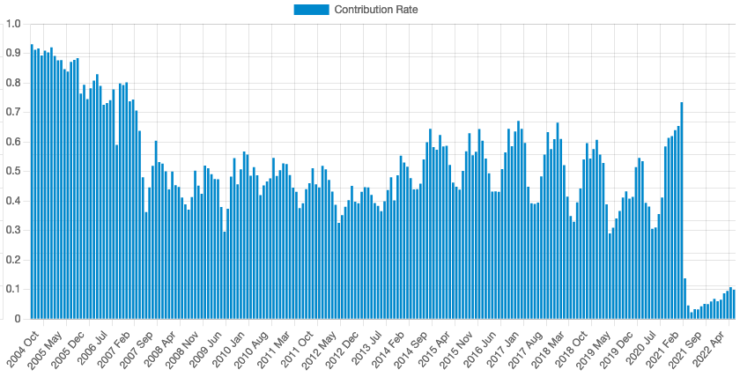
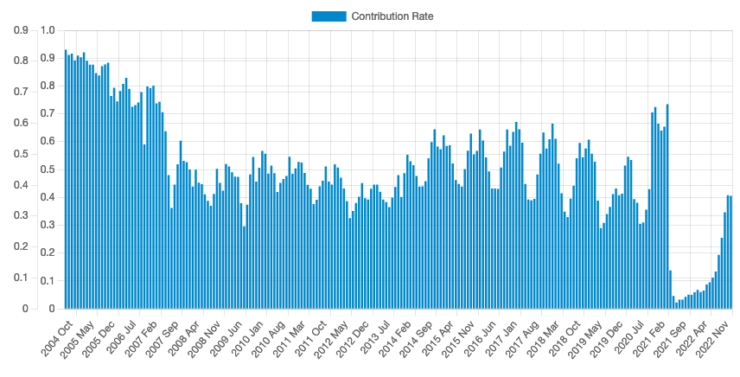
Dam communities

diff --git a/_posts/2023-02-14-community_reservoir.md b/_posts/2023-02-14-community_reservoir.md
@@ -1,0 +1,224 @@
+---
+layout: post
+title: Community Insights #1
+subtitle: Communities are like reservoirs
+tags: community metrics insights
+comments: true
+---
+
+[This is the first of a regular series of articles about the College
+Confidential community. I'm writing them for an internal audience and
+this is a slightly edited version for an external audience.]
+
+I've [compared communities to hydroelectric
+dams](https://jlericson.com/2021/03/23/2021_CMX_report.html) in the
+sense that they're difficult to get started yet provide ongoing value if
+well maintained. To extend the metaphor a little bit, the reservoir
+behind a dam works like any group of people. People flow into groups via
+inlets and leave via outlets. The size of a group continually changes as
+people come and go. This is true of all types of groups, not just online
+communities.
+
+My wife is a leader in Cub Scouts. People find out about the pack via
+Facebook, personal recommendation, membership drives and flyers at
+school. Every year many families join and many families leave. Usually
+they leave because their children age out of the program. But they also
+leave because they are moving out of state or just lose interest. It's
+not much different from College Confidential in that respect.
+
+## Inlets
+
+Google Analytics provides a useful summary of how people come to
+CC:[^1]
+
+![](/images/cc_channels.png)
+
+A quick summary of what those channels represent:
+
+-   Organic search is people entering a search term into Google (or
+    Bing, I suppose)
+-   Direct means the person typed the URL directly or used a
+    bookmark.[^2]
+-   Referrals come from sites that link to CC, which aren't social media
+    sites.
+-   Social covers Facebook, Instagram, Twitter, etc.
+-   Email means the traffic comes from an email we sent out with a UTM
+    tag.[^3]
+
+Because of the way Google Analytics is set up, links from
+[https://www.collegeconfidential.com/](https://www.collegeconfidential.com/)
+are counted as Referral. \~80% of referral traffic comes from the WWW
+side of CC. We can infer that many (and perhaps, most) of those people
+are already CC forum users who are simply navigating around the site.
+Most Direct traffic is also likely to be people who are already part of
+the community.
+
+With 87% of traffic coming from organic search, Google is our primary
+source of visitors. This is typical for mature communities and CC has
+been around for 2 decades. Early on it was the only place to get
+information about college admissions. Now we are competing with reddit,
+social media and the schools' websites for search traffic. To bring it
+back to the reservoir analogy, new dams have been built upstream from us
+to divert flows away from CC.
+
+Our dependence on Google for traffic is not unique, but we do have
+advantages because we offer interactive discussion. If you can't find
+what you\'re looking for, you can start a discussion. Google is
+beginning to [recognize the value of
+forums](https://blog.google/products/search/google-search-discussions-forums-news/)
+and members of the community continue to add to our content library for
+minimal cost. New content relevant to our audience is the best way to
+attract more search traffic, so it's a virtuous cycle.
+
+I anticipate search will be the topic of a future community insight
+article. But to summarize: **Nearly all of CC's new users come from
+Google.**
+
+## Outlets
+
+"All happy families are alike; each unhappy family is unhappy in its own
+way."
+
+---Leo Tolstoy, [*Anna
+Karenina*](https://en.wikipedia.org/wiki/Anna_Karenina_principle)
+
+There are many ways for people to drop out of CC. Perhaps the healthiest
+is when students complete their education or parents run out of
+college-age children. College Confidential served its purpose and people
+move on.[^4] We can think of this as the water that runs through the
+turbines and generates the power of the community. If we've genuinely
+helped students and their families, the community has provided value.
+This is the best way to sell CC to the next generation.
+
+On the opposite end of the spectrum, we have people who visit CC a few
+times and never return. Think of this as evaporation---that outlet
+provides little value. An easy-to-categorize type of pageviews come from
+bots/crawlers. Those will never convert to active users, but we do get
+value from them because they index the site so that search engines can
+show our pages to people looking for information. (Remember, this is our
+top source of new users.)
+
+![](/images/cc_pageviews.png)
+
+Metrics like bounce rate give us an idea of how many people leave on
+their first visit. All other things being equal, we want lower bounce
+rates. What we really want to know, however, is how many people come
+back to the site over and over again. Unfortunately, we can't easily
+track individual visitors before they register.[^5]
+
+Before going on, I do need to point out two oddities with our data:
+
+1.  We changed platforms for the forums in November, 2020. As a result
+    we do not have easy access to data about anonymous users before that
+    month.
+2.  From June, 2021 to June, 2022 CC required registration in order to
+    browse the site.[^6]
+
+The result is a natural experiment on the behavior of lurkers. Before we
+required registration to browse, 18% of non-bot traffic came from
+registered users. After we required registration, the rate
+increased to a max of 60% as regular readers had a reason to register.
+It fluctuated a fair amount, however. The average for that period was
+38%. Almost all of the anonymous traffic in this period was from people
+who visited only a few pages or who used ad-blocking technology.
+
+After we removed the registration wall, the rate of registered pageviews
+stabilized at around 46%. Since nearly all of our regular lurkers had
+converted to registered users or left the site, we can estimate what
+proportion of pageviews come from people who read the site regularly,
+but don't contribute. Normally these people wouldn't bother to register.
+So if we assume \~18% of pageviews still come from contributors, we can
+estimate that \~28% of pageviews come from regular readers who don't
+post.
+
+![](/images/cc_registered_traffic.png)
+
+From the perspective of community management, traffic from lurkers is
+like the water that's released downstream via a spillway. It's not
+driving the engine of the community (posts) so it doesn't help our
+growth. That said, this traffic can be very valuable for other parts of
+the business such as advertising and lead generation. It's just that the
+greater benefit comes from people who contribute to the site in some
+way.
+
+Outside of the period where we required registration to read the site,
+people generally register only when they intend to contribute in some
+way. So another outlet happens when people register, but don't
+contribute. Because of the seasonality of the college application
+process, the rate of people who contribute at least one post in the 30
+days after they register varies. In the summer months, we see
+about 35% of registered users contribute. In March, during peak decision
+season, the rate is closer to 60%.
+
+![](/images/CC_contribution_rate.png)
+
+The rather dramatic dropoff from June 2021 to June 2022 coincides with
+the registration wall. Many people who had no intention of contributing
+registered so that they could read the site. One might hope that they
+would decide to contribute now that they had an account to do so, but
+very few actually did. The jump from lurking to contributing has always
+been large.
+
+Finally we have people who register, maybe contribute for a while and
+then leave for whatever reason. Again this is highly seasonal. People
+who register in March tend to be students who want to interact with
+other students who applied to the same schools they did. After regular
+decision season, those students don't see any reason to stick around.
+Meanwhile, students who register in the fall, tend to stick around at
+least through the end of decision season.
+
+
+![](/images/CC_retention_rate.png)
+
+
+I should point out that both the contribution rate and retention rate
+increased rather dramatically from November 2020 to June 2021. This was
+the time from when we moved from Vanilla Forums to Discourse. The more
+modern platform offers many features that encourage participation. In
+addition, the old forums looked very much as if they had been
+transported in from the early 2000s. (No surprise since that's exactly
+what had happened.) By providing a more familiar looking platform, we
+increased the odds people would contribute and stick around.
+
+## Summary
+
+College Confidential gets almost all of its incoming traffic via Google
+search.
+
+People leave the site when they:
+
+1.  immediately bounce off of the page they land on.
+2.  read the content on the site, but never decide to register.
+3.  register, but never contribute.
+4.  contribute for a short period of time, but stop returning.
+5.  complete their college admission journey and move onto other
+    pursuits in life.
+
+In the long run, increasing contribution and retention rates will
+increase the quantity and quality of content on CC. That, in turn, is
+the best way to bring in new visitors via search traffic.
+
+---
+
+
+[^1]:  This is just the forums. The WWW section is 58% Organic Search
+    and 32% Direct.
+
+[^2]:  These days it is likely they started to type the URL and it
+    turned up as an autocomplete option.
+
+[^3]:  If I send an email with a CC link, it won't have a UTM and will
+    be counted as Direct instead.
+
+[^4]:  Our most dedicated users are parents whose children have grown
+    up. It's important to understand that these folks care deeply about
+    the next generation and also have formed friendships on CC. This
+    isn't a goal for us, but it's a sign of a strong and vibrant
+    community.
+
+[^5]:  This isn't even about privacy policies. If I visit a site from my
+    work computer, again on my phone during lunch and a third time from
+    my personal laptop at home, I will look like three different people.
+
+[^6]:  I wrote about this [on my
+    blog](https://jlericson.com/2022/10/14/registration_drives.html).
